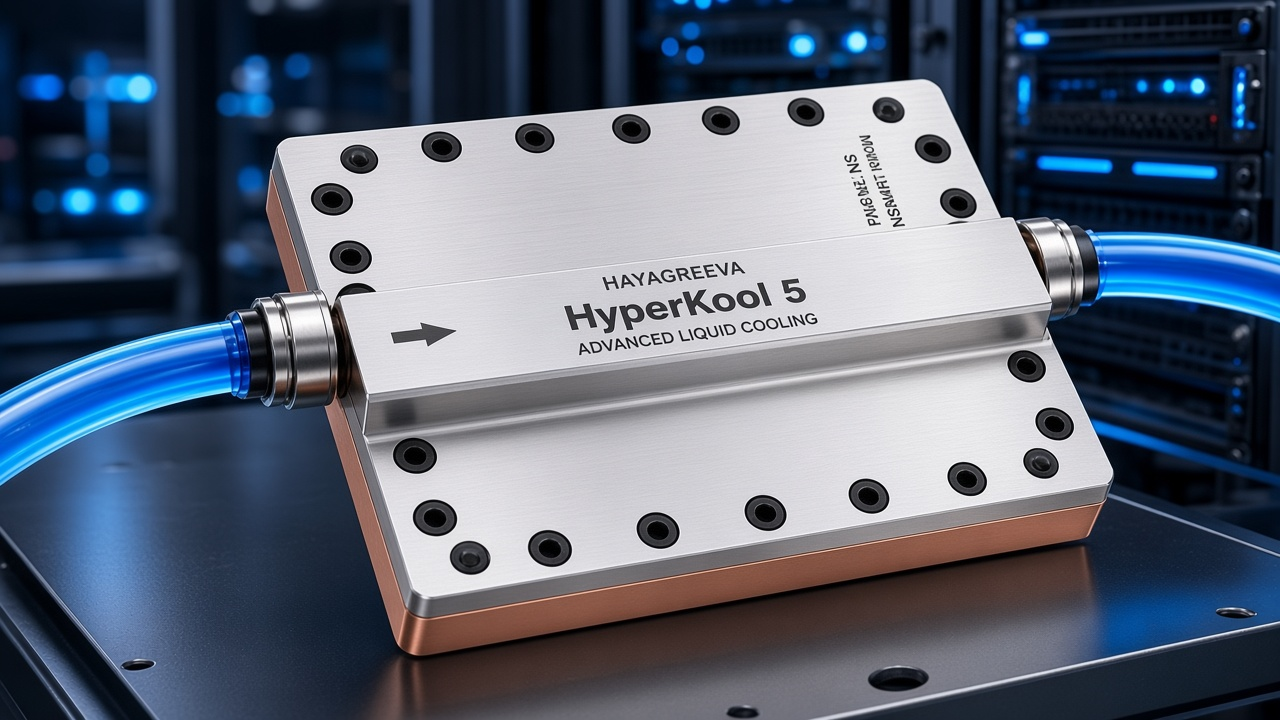
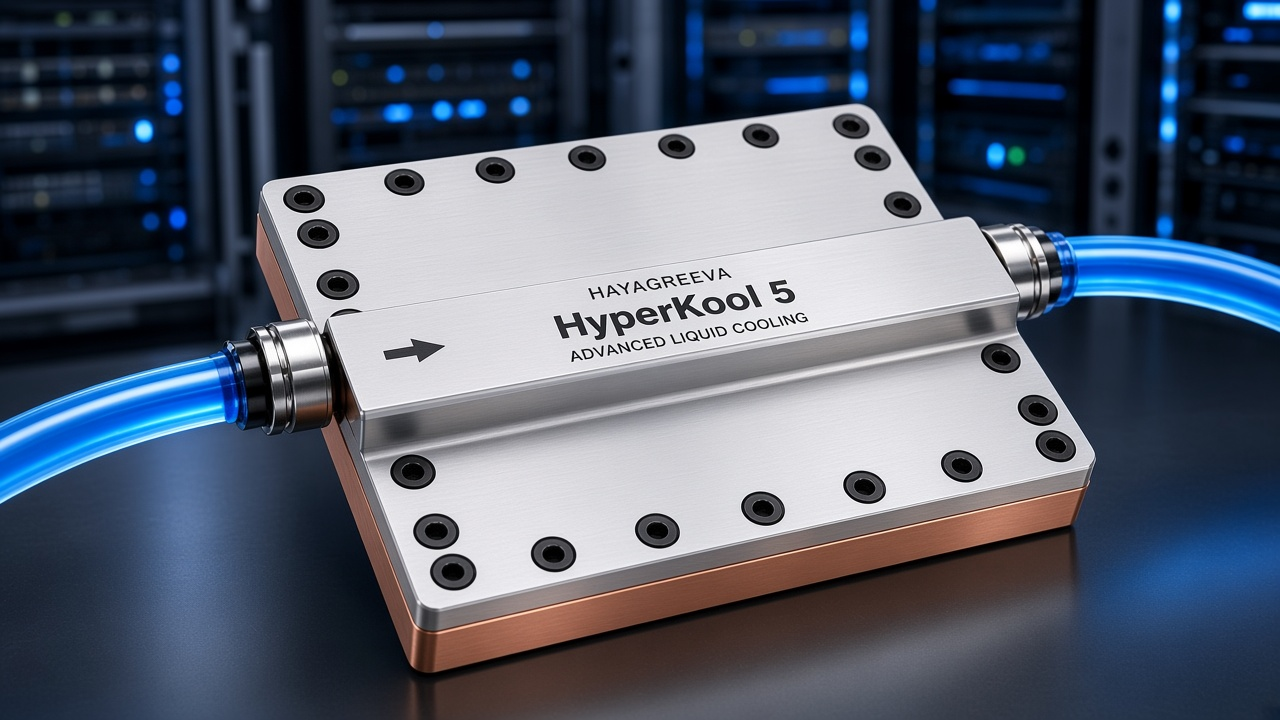
Refresh HyperKool visuals with mockup-matched generated assets.
Use a dedicated hero atmosphere plate plus updated product and service images so /hyperkool closer matches the reference design.

diff --git a/src/styles/hyperkool-home.scss b/src/styles/hyperkool-home.scss
@@ -231,72 +231,23 @@ body:has(.hk-home) {
   pointer-events: none;
 }
 
-.hk-hero__flow {
-  position: absolute;
-  inset: -10% -5% -20% 20%;
-  background:
-    radial-gradient(ellipse 55% 70% at 78% 45%, rgba(0, 163, 224, 0.28), transparent 62%),
-    radial-gradient(ellipse 40% 50% at 92% 70%, rgba(0, 120, 200, 0.18), transparent 55%),
-    radial-gradient(ellipse 35% 45% at 55% 30%, rgba(120, 210, 240, 0.22), transparent 60%);
-  filter: blur(2px);
-}
-
-.hk-hero__flow::before,
-.hk-hero__flow::after {
-  content: "";
-  position: absolute;
-  border-radius: 50%;
-  filter: blur(18px);
-  opacity: 0.55;
-}
-
-.hk-hero__flow::before {
-  width: 70%;
-  height: 55%;
-  top: 18%;
-  right: -8%;
-  background: linear-gradient(
-    115deg,
-    transparent 10%,
-    rgba(0, 174, 239, 0.35) 40%,
-    rgba(0, 120, 200, 0.15) 70%,
-    transparent 90%
-  );
-  transform: rotate(-12deg);
-}
-
-.hk-hero__flow::after {
-  width: 55%;
-  height: 40%;
-  top: 42%;
-  right: 8%;
-  background: linear-gradient(
-    100deg,
-    transparent,
-    rgba(90, 200, 240, 0.4),
-    transparent
-  );
-  transform: rotate(8deg);
-}
-
-.hk-hero__rack {
+.hk-hero__atmosphere-img {
   object-fit: cover !important;
-  object-position: 70% center;
-  opacity: 0.35;
-  -webkit-mask-image: linear-gradient(
-    90deg,
-    transparent 0%,
-    transparent 45%,
-    rgba(0, 0, 0, 0.4) 65%,
-    #000 100%
-  );
-  mask-image: linear-gradient(
-    90deg,
-    transparent 0%,
-    transparent 45%,
-    rgba(0, 0, 0, 0.4) 65%,
-    #000 100%
-  );
+  object-position: center right;
+}
+
+.hk-hero__veil {
+  position: absolute;
+  inset: 0;
+  background:
+    linear-gradient(
+      105deg,
+      #ffffff 0%,
+      rgba(255, 255, 255, 0.98) 22%,
+      rgba(255, 255, 255, 0.82) 38%,
+      rgba(255, 255, 255, 0.25) 58%,
+      transparent 72%
+    );
 }
 
 .hk-hero__layout {

diff --git a/src/components/HyperKoolPage.tsx b/src/components/HyperKoolPage.tsx
@@ -148,16 +148,16 @@ export default function HyperKoolPage() {
       <main>
         <section className="hk-hero" aria-label="HyperKool hero">
           <div className="hk-hero__atmosphere" aria-hidden>
-            <div className="hk-hero__flow" />
             <Image
-              className="hk-hero__rack"
-              src="/assets/hyperkool/service-gpu-caas.jpg"
+              className="hk-hero__atmosphere-img"
+              src="/assets/hyperkool/hero-atmosphere.jpg"
               alt=""
               fill
               unoptimized
-              sizes="70vw"
+              sizes="100vw"
               priority
             />
+            <div className="hk-hero__veil" />
           </div>
 
           <div className="hk-container hk-hero__layout">
